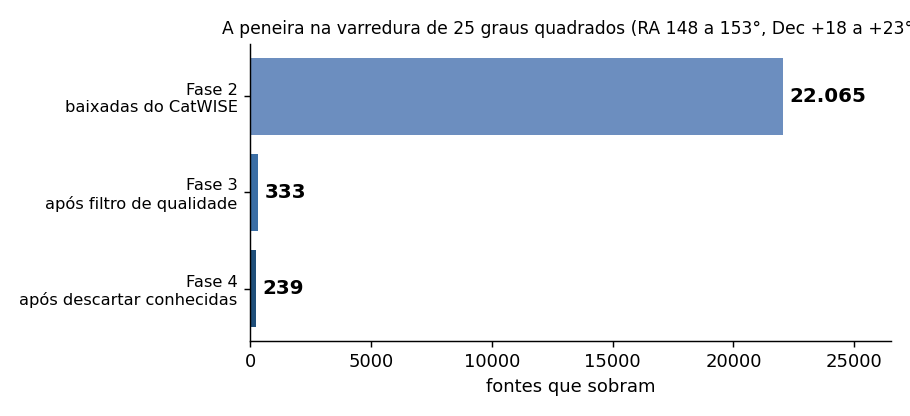
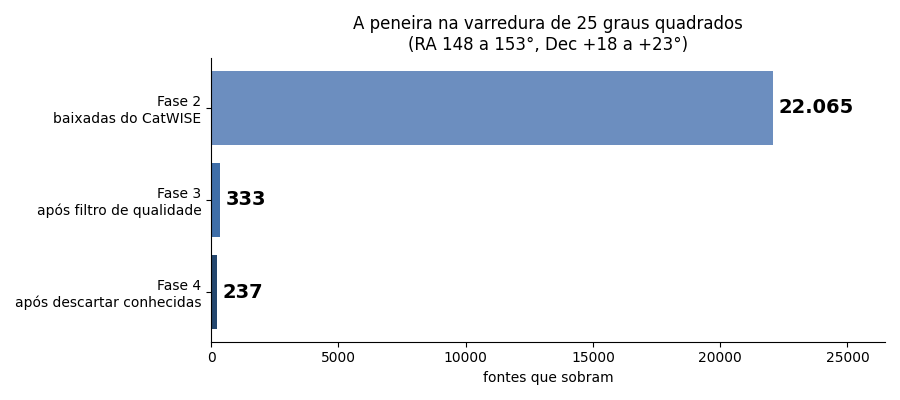
docs: funil com 237 candidatos, gerado por tools/gerar_funil.py a partir do banco

Changed region(s): [[0.0, 0.03, 1.0, 0.96], [0.2178, 0.87, 0.2489, 0.9]]

diff --git a/tools/gerar_funil.py b/tools/gerar_funil.py
@@ -1,0 +1,55 @@
+"""Gera docs/img/funil_fases.png (quantas fontes sobram em cada fase) a partir do banco.
+
+Rodar da raiz do repositorio, depois de uma varredura:
+
+    python tools/gerar_funil.py
+"""
+
+import sqlite3
+import sys
+from pathlib import Path
+
+ROOT = Path(__file__).resolve().parent.parent
+sys.path.insert(0, str(ROOT))
+
+import matplotlib
+
+matplotlib.use("Agg")
+import matplotlib.pyplot as plt
+
+import config
+
+SAIDA = ROOT / "docs" / "img" / "funil_fases.png"
+CONSULTAS = [
+    ("Fase 2\nbaixadas do CatWISE", "SELECT COUNT(*) FROM campo_bruto"),
+    ("Fase 3\napós filtro de qualidade", "SELECT COUNT(*) FROM candidatos_fase3"),
+    ("Fase 4\napós descartar conhecidas",
+     "SELECT COUNT(*) FROM candidatos_fase4 WHERE status = 'candidato'"),
+]
+
+
+def main():
+    with sqlite3.connect(str(config.SQLITE_PATH)) as conn:
+        valores = [conn.execute(q).fetchone()[0] for _, q in CONSULTAS]
+    rotulos = [r for r, _ in CONSULTAS]
+
+    fig, ax = plt.subplots(figsize=(9, 4))
+    cores = ["#6c8ebf", "#3f6ea8", "#24476e"]
+    ax.barh(rotulos[::-1], valores[::-1], color=cores[::-1])
+    for i, v in enumerate(valores[::-1]):
+        ax.text(v + max(valores) * 0.01, i, f"{v:,}".replace(",", "."), va="center",
+                fontsize=14, fontweight="bold")
+    ra, dec = config.FIELD_RA_RANGE, config.FIELD_DEC_RANGE
+    area = (ra[1] - ra[0]) * (dec[1] - dec[0])
+    ax.set_title(f"A peneira na varredura de {area:g} graus quadrados\n"
+                 f"(RA {ra[0]:g} a {ra[1]:g}°, Dec {dec[0]:+g} a {dec[1]:+g}°)")
+    ax.set_xlabel("fontes que sobram")
+    ax.set_xlim(0, max(valores) * 1.2)
+    ax.spines[["top", "right"]].set_visible(False)
+    fig.tight_layout()
+    fig.savefig(SAIDA, dpi=100)
+    print(f"salvo {SAIDA}: {valores}")
+
+
+if __name__ == "__main__":
+    main()

diff --git a/README.md b/README.md
@@ -276,7 +276,9 @@ Tudo centralizado em `config.py`: região do céu, limiares de PM/SNR/flags, alv
 │   ├── relatorio.py         # Fase 7: relatorio dos confirmados (HTML, e CSV pela linha de comando)
 │   └── proper_motion.py     # util (pm_total, cor_w1w2)
 ├── tools/
-│   └── recall_conhecidas.py # mede o recall dos cortes contra anas conhecidas
+│   ├── recall_conhecidas.py # mede o recall dos cortes contra anas conhecidas
+│   ├── gerar_referencias.py # folhas de referencia da revisao (docs/img/ref_*.jpg)
+│   └── gerar_funil.py       # grafico do funil (docs/img/funil_fases.png), lido do banco
 ├── app/
 │   ├── revisao.py           # Fase 6: app Streamlit de revisao visual
 │   └── dados.py             # leitura/gravacao das revisoes e URLs dos recortes
